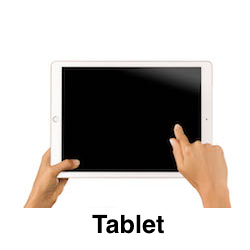
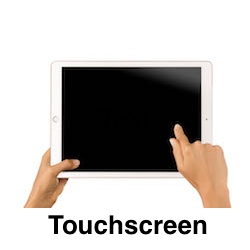
device selection dialog

Changed region(s): [[0.196, 0.84, 0.84, 0.952]]

diff --git a/public/mkturk.html b/public/mkturk.html
@@ -177,17 +177,22 @@
   text-align:center;
   color:black;
 }
-#MouseImage:hover{
+
+.DeviceButton:hover{
   box-shadow: 0 0 2px 1px rgba(0, 140, 186, 0.5);
+}
+.DeviceButton{
+  border-radius:8px;
+  border-style:solid;
+  vertical-align:bottom; 
+  margin-top:5%; 
+  margin-left:10%;
+  border-radius:8px; 
+  border-color:#ddd;
+  max-width:20%; 
+  height:auto
 }
 
-#TrackPadImage:hover{
-  box-shadow: 0 0 2px 1px rgba(0, 140, 186, 0.5);
-}
-
-#TabletImage:hover{
-  box-shadow: 0 0 2px 1px rgba(0, 140, 186, 0.5);
-}
 
 </style>
 
@@ -234,17 +239,20 @@
 
 <div id="MechanicalTurkInstructionsSplash">
   <span id='InstructionSplashText'> instructions text </span>
-  <button style="text-align:center; width:30%; height:6%; position:absolute; top: 93%; left:35%" onclick="toggleElement(0, 'InstructionSplashText'); toggleElement(1, 'MechanicalTurkCursorDeviceSelectionScreen')" id='CloseInstructionsButton'> Continue </button>
+  <button style="text-align:center; width:30%; height:6%; position:absolute; top: 93%; left:35%" onclick="toggleElement(0, 'MechanicalTurkInstructionsSplash'); toggleElement(1, 'MechanicalTurkCursorDeviceSelectionScreen')" id='CloseInstructionsButton'> Continue </button>
 </div>
 
 <div id="MechanicalTurkCursorDeviceSelectionScreen">
   <div id='DeviceSelectionSplashText'> Select which device you are using to move the cursor. </div>
 
-  
-  <input type="image" id='MouseImage'  style="vertical-align:bottom; margin-top:5%; margin-left:10%; border-radius:8px; border:1px solid #ddd; max-width:20%; height:auto" id="MouseImage" src="tutorial_images/mouse.png " alt="Mouse" />
-  <input type="image"  id='TrackPadImage' style="vertical-align:bottom; margin-top:5%; margin-left:10%; border-radius:8px; border:1px solid #ddd; max-width:20%; height:auto id="TrackpadImage" src="tutorial_images/trackpad.png " alt="Trackpad" />
-  <input type="image"  id = 'TabletImage' style="vertical-align:bottom; margin-top:5%; margin-left:10%; border-radius:8px; border:1px solid #ddd; max-width:20%; height:auto id="TabletImage" src="tutorial_images/tablet.png " alt="Tablet" />
 
+  <input type="image" class='DeviceButton' id='MouseImage'  style="" id="MouseImage" src="tutorial_images/mouse.png " alt="Mouse" onclick="setDeviceSelection(this, 'mouse')" />
+  <input type="image"  class='DeviceButton' id='TrackPadImage' src="tutorial_images/trackpad.png " alt="Trackpad" onclick="setDeviceSelection(this, 'trackpad')" />
+  <input type="image"  class='DeviceButton' id = 'TabletImage' src="tutorial_images/tablet.png " alt="Tablet" onclick="setDeviceSelection(this, 'touchscreen')" />
+
+  <span>
+  <button style="text-align:center; width:30%; height:6%; position:absolute; top: 93%; left:35%;"  onclick="toggleElement(0, 'MechanicalTurkCursorDeviceSelectionScreen');" id='CloseDeviceSelectionButton' disabled> <i>Make selection to continue</i> </button>
+  </span>
 </div>
 
 

diff --git a/public/mkturk_screenfunctions.js b/public/mkturk_screenfunctions.js
@@ -1,3 +1,19 @@
+function setDeviceSelection(element, devicename){
+	FLAGS._MechanicalTurk_DeviceSelected = devicename 
+	var device_option_elements = document.querySelectorAll(".DeviceButton")
+	for(var i = 0; i<device_option_elements.length; i++){
+		device_option_elements[i].style['opacity'] = 0.5
+		device_option_elements[i].style['border-color'] = '#ddd'
+	}
+	element.style['border-color'] = 'green'
+	element.style['opacity'] = 1
+
+	var continue_button = document.getElementById('CloseDeviceSelectionButton')
+	continue_button.innerHTML = 'Continue'
+	continue_button.disabled = false
+
+}
+
 function updateSessionTextbox(SubjectID, ExperimentName){
 	  var sess_textbox = document.getElementById("SessionTextBox")
 
